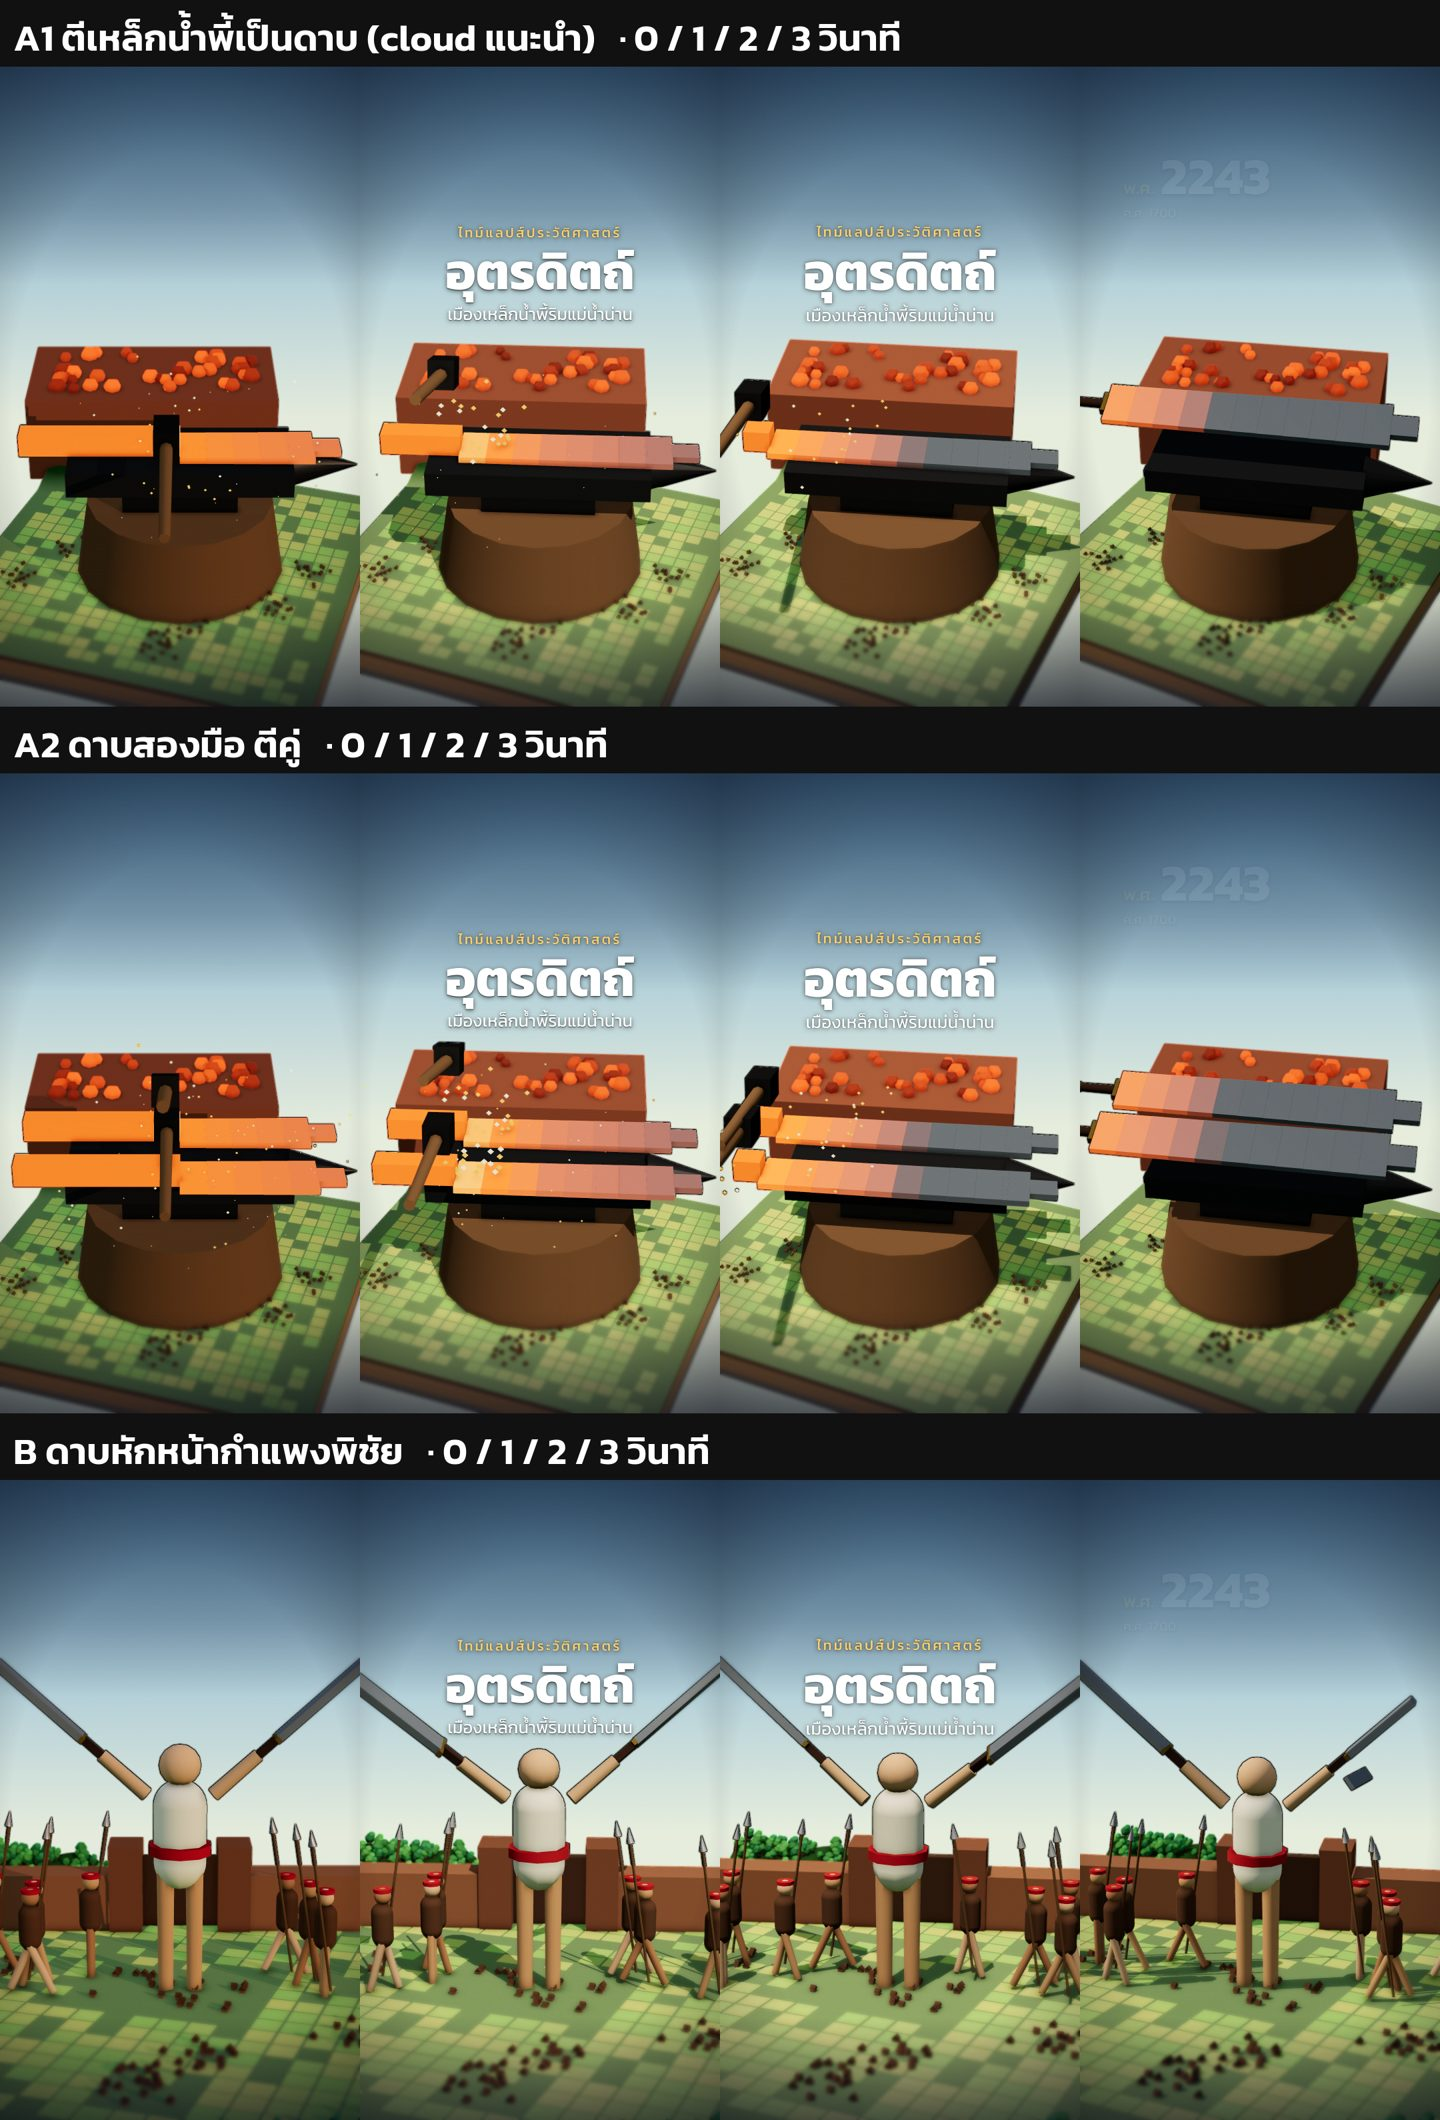
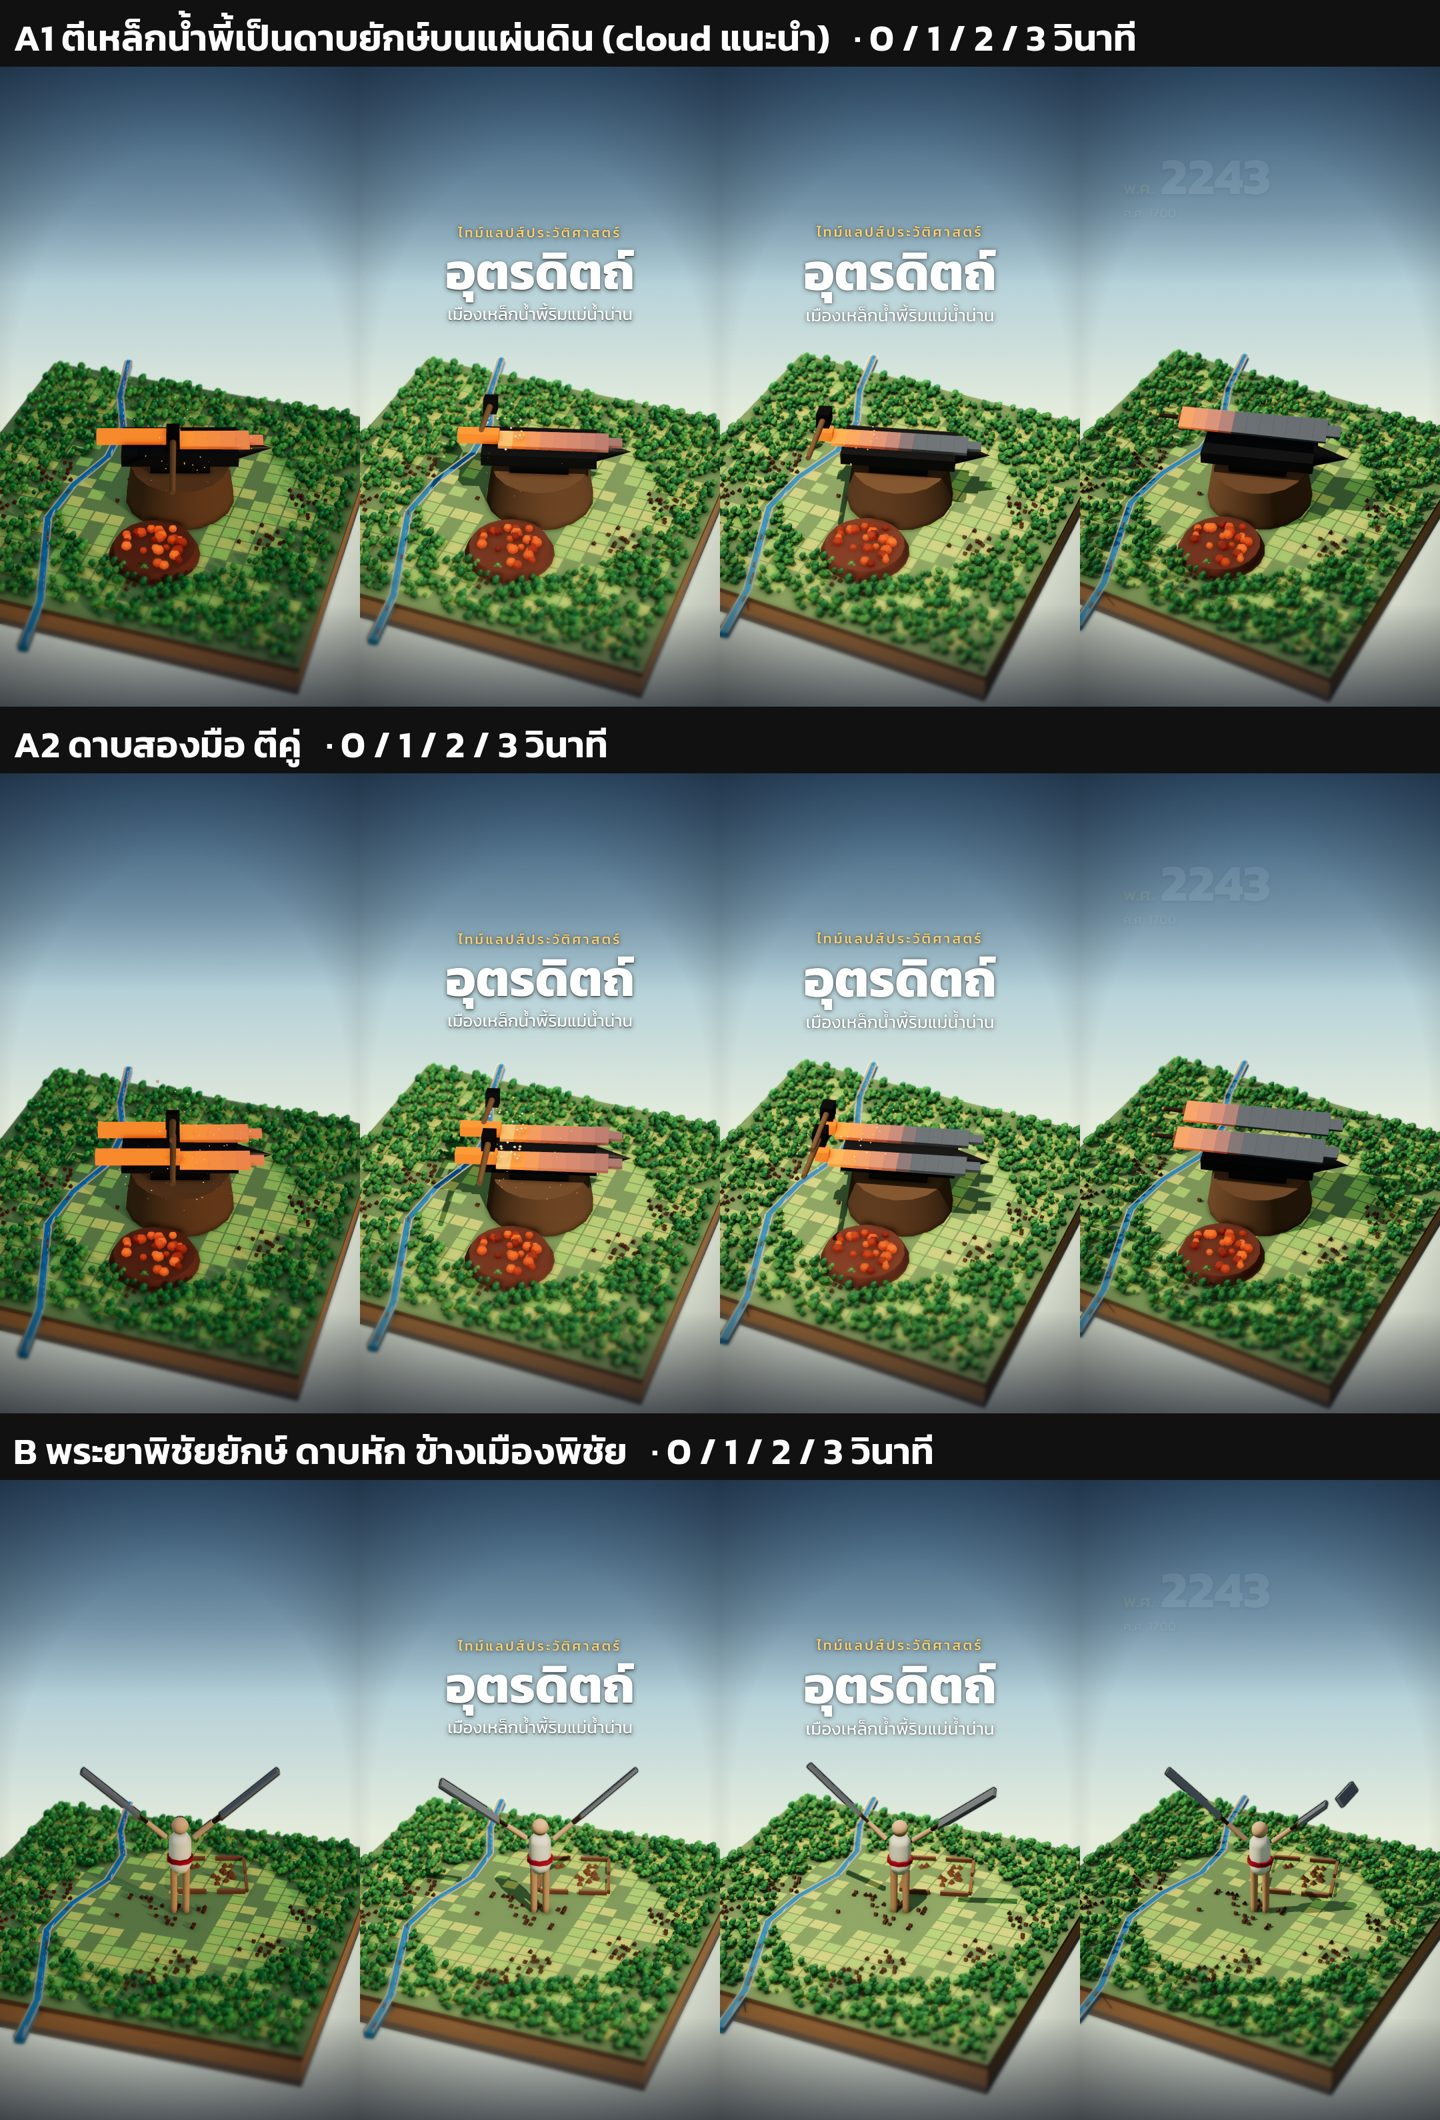
Uttaradit style frames v2: the whole land tile with the Nan, the anvil and sword at legend scale, camera 290-335 out (owner: the cover shows the land)

diff --git a/src/styleframes/uttaradit.tsx b/src/styleframes/uttaradit.tsx
@@ -7,7 +7,9 @@
 // the hilt goes on and the sword lifts and turns. A1 one sword on the whole tile; A2 the twin swords
 // (ดาบสองมือ) side by side, two hammers out of step. B: ดาบหัก, the fight before Phichai's wall in 2316:
 // the hero with a sword in each hand between two lines of spearmen; one blade snaps at ~2.2 s and its half
-// spins away. Shapes are placeholders until the layout lands.
+// spins away. Owner (8 Nov): the cover shows the whole land tile with a giant on it, like Korat, Chiang Mai,
+// Udon and Ratchaburi: legend-scale hero, forest tile and its soil edge in frame, camera ~290-335 out.
+// Shapes are placeholders until the layout lands.
 import React, {useMemo} from 'react';
 import * as THREE from 'three';
 import {KORAT} from '../cities/korat';
@@ -16,7 +18,11 @@ import {buildStory} from '../engine/story';
 import type {CityConfig, LandmarkProps} from '../engine/types';
 
 type P2 = [number, number];
-const FIELD: P2 = [0, -4];
+const FIELD: P2 = [4, -2];
+// the Nan, north to south down the west of the tile (placeholder until [local]'s map)
+const NAN: P2[] = [
+  [-30, -58], [-26, -40], [-20, -26], [-19, -12], [-23, 2], [-24, 16], [-19, 30], [-14, 44], [-12, 58],
+];
 const smooth = (x: number) => x * x * (3 - 2 * x);
 const clamp01 = (x: number) => Math.max(0, Math.min(1, x));
 const hash = (i: number) => {
@@ -171,16 +177,18 @@ const Smithy: React.FC<{t: number; S: number; blades: {z: number; lag: number}[]
         <coneGeometry args={[0.07 * S, 0.22 * S, 12]} />
         <meshStandardMaterial color="#363535" metalness={0.55} roughness={0.45} />
       </mesh>
-      {/* the hearth: a low brick bed of coals behind the anvil, breathing with the bellows */}
-      <group position={[-0.1 * S, 0, -0.75 * S]}>
-        <mesh position={[0, 0.16 * S, 0]} castShadow receiveShadow>
-          <boxGeometry args={[0.9 * S, 0.32 * S, 0.45 * S]} />
-          <meshStandardMaterial color="#8a4a2e" roughness={0.95} />
+      {/* the hearth: a low pit of coals on the ground beside the anvil, breathing with the bellows */}
+      <group position={[-0.15 * S, 0, 0.55 * S]}>
+        <mesh position={[0, 0.03 * S, 0]} receiveShadow>
+          <cylinderGeometry args={[0.24 * S, 0.27 * S, 0.06 * S, 20]} />
+          <meshStandardMaterial color="#6e3a24" roughness={0.95} />
         </mesh>
-        {Array.from({length: 40}, (_, i) => {
+        {Array.from({length: 30}, (_, i) => {
           const glow = 0.6 + 0.4 * Math.sin(t * 5 + i * 1.7);
+          const a = hash(i) * Math.PI * 2;
+          const r = Math.sqrt(hash(i + 40)) * 0.2 * S;
           return (
-            <mesh key={i} position={[(hash(i) - 0.5) * 0.75 * S, 0.33 * S, (hash(i + 40) - 0.5) * 0.32 * S]} scale={S * (0.02 + hash(i + 7) * 0.015)}>
+            <mesh key={i} position={[Math.cos(a) * r, 0.07 * S, Math.sin(a) * r]} scale={S * (0.02 + hash(i + 7) * 0.015)}>
               <dodecahedronGeometry args={[1, 0]} />
               <meshStandardMaterial color="#2a1a12" emissive="#ff5a10" emissiveIntensity={glow} roughness={1} />
             </mesh>
@@ -248,57 +256,53 @@ const Hero: React.FC<{t: number}> = ({t}) => {
 const Fight: React.FC<{t: number; S: number}> = ({t, S}) => {
   const u = clamp01((t - BROKE) / 1.6);
   // the snapped half of the blade spins up and away, with a flash at the break
-  const piece: [number, number, number] = [0.7 * S + u * 1.1 * S, 2.8 * S + u * 1.3 * S - u * u * 2.6 * S, 0.3 * S + u * 0.4 * S];
+  const piece: [number, number, number] = [0.9 * S + u * 1.1 * S, 2.9 * S + u * 1.0 * S - u * u * 3.2 * S, 0.3 * S + u * 0.4 * S];
   return (
     <group position={[FIELD[0], 0, FIELD[1]]} rotation-y={A}>
-      {/* Phichai's earth wall and its gate, behind */}
-      {[-1, 1].map((s) => (
-        <mesh key={s} position={[s * 2.6 * S, 0.4 * S, -2.4 * S]} castShadow receiveShadow>
-          <boxGeometry args={[4 * S, 0.8 * S, 0.55 * S]} />
-          <meshStandardMaterial color="#8e5b3c" roughness={0.95} />
-        </mesh>
-      ))}
-      {[-1, 1].map((s) => (
-        <mesh key={s} position={[s * 0.75 * S, 0.6 * S, -2.4 * S]} castShadow>
-          <boxGeometry args={[0.45 * S, 1.2 * S, 0.65 * S]} />
-          <meshStandardMaterial color="#7a4a30" roughness={0.9} />
-        </mesh>
-      ))}
-      <mesh position={[0, 0.5 * S, -2.45 * S]}>
-        <boxGeometry args={[1.05 * S, 1 * S, 0.12 * S]} />
-        <meshStandardMaterial color="#4a2e1c" roughness={0.9} />
-      </mesh>
-      {/* the hero, big, at the front */}
-      <group position={[0, 0, 0.2 * S]} scale={1.7 * S}>
+      {/* the giant: Phraya Phichai with a sword in each hand */}
+      <group scale={S}>
         <Hero t={t} />
       </group>
       {u > 0 && u < 1 && (
         <group position={piece} rotation={[u * 9, u * 5, u * 7]} scale={S}>
-          <mesh>
+          <mesh castShadow>
             <boxGeometry args={[0.05, 0.58, 0.16]} />
             <meshStandardMaterial color="#c9d0d6" metalness={0.75} roughness={0.25} />
           </mesh>
         </group>
       )}
       {t > BROKE && t < BROKE + 0.5 && (
-        <mesh position={[0.65 * S, 2.6 * S, 0.45 * S]} scale={S * 0.35 * Math.sin(((t - BROKE) / 0.5) * Math.PI)}>
+        <mesh position={[0.95 * S, 2.75 * S, 0.3 * S]} scale={S * 0.3 * Math.sin(((t - BROKE) / 0.5) * Math.PI)}>
           <octahedronGeometry args={[1, 0]} />
           <meshBasicMaterial color="#fff1c2" toneMapped={false} />
         </mesh>
       )}
-      {/* two lines of spearmen pressing in from the sides */}
-      {Array.from({length: 16}, (_, i) => {
-        const side = i % 2 ? 1 : -1;
-        const row = Math.floor(i / 2);
-        const press = 0.25 * Math.sin(t * 2 + i);
-        const x = side * (1.1 + row * 0.42 + press) * S;
-        const z = (-0.3 + (row % 3) * 0.35) * S;
-        return (
-          <group key={i} position={[x, 0, z]} rotation-y={side > 0 ? -Math.PI / 2 : Math.PI / 2} scale={0.75 * S}>
-            <Walker step={t * 1.4 + i * 0.3} i={i} spear />
-          </group>
-        );
-      })}
+    </group>
+  );
+};
+
+/** Phichai at true scale behind the giant: a square earth wall with a gate in each side and roofs inside */
+const Phichai: React.FC = () => {
+  const c: P2 = [FIELD[0] + 2, FIELD[1] - 20];
+  const half = 9;
+  return (
+    <group position={[c[0], 0, c[1]]} rotation-y={A}>
+      {[0, 1, 2, 3].map((k) => (
+        <group key={k} rotation-y={(k * Math.PI) / 2}>
+          {[-1, 1].map((sd) => (
+            <mesh key={sd} position={[sd * half * 0.55, 0.6, half]} castShadow receiveShadow>
+              <boxGeometry args={[half * 0.8, 1.2, 0.8]} />
+              <meshStandardMaterial color="#8e5b3c" roughness={0.95} />
+            </mesh>
+          ))}
+        </group>
+      ))}
+      {Array.from({length: 14}, (_, i) => (
+        <mesh key={i} position={[(hash(i) - 0.5) * 12, 0.7, (hash(i + 20) - 0.5) * 12]} rotation-y={hash(i + 5) * 3} castShadow>
+          <coneGeometry args={[1.1, 1.4, 4]} />
+          <meshStandardMaterial color="#7b4b2b" roughness={0.9} />
+        </mesh>
+      ))}
     </group>
   );
 };
@@ -342,8 +346,8 @@ const base = (id: string, Hero: React.FC<{t: number}>, target: number, d: [numbe
     },
     layout: {
       ...KORAT.layout,
-      peaks: [[-50, -42, 8, 11], [-34, -52, 6, 9]],
-      rivers: [],
+      peaks: [],
+      rivers: [{path: NAN, width: 1.8}],
       bridges: [],
       noMoat: true,
       noWall: true,
@@ -363,16 +367,31 @@ const base = (id: string, Hero: React.FC<{t: number}>, target: number, d: [numbe
   };
 };
 
-const S_A = 80;
-export const UTTARADIT_A1 = base('uttaradit-a1', ({t}) => <Smithy t={t} S={S_A} blades={[{z: 0, lag: 0}]} />, 0.42 * S_A, [300, 310, 340], 30, 1.6 * S_A);
+// legend scale: the sword ~40 units long on an anvil ~17 high, about the size of Udon's jar
+const S_A = 40;
+const CAM: [number, number, number] = [290, 300, 335];
+export const UTTARADIT_A1 = base('uttaradit-a1', ({t}) => <Smithy t={t} S={S_A} blades={[{z: 0, lag: 0}]} />, 0.35 * S_A, CAM, 36, 30);
 // A2: the twin swords (ดาบสองมือ) side by side, the second hammer half a blow behind the first
 export const UTTARADIT_A2 = base(
   'uttaradit-a2',
   ({t}) => <Smithy t={t} S={S_A} blades={[{z: -0.14, lag: 0}, {z: 0.14, lag: 0.12}]} />,
-  0.42 * S_A,
-  [300, 310, 340],
+  0.35 * S_A,
+  CAM,
+  36,
   30,
-  1.6 * S_A,
 );
-const S_B = 12;
-export const UTTARADIT_B = base('uttaradit-b', ({t}) => <Fight t={t} S={S_B} />, 1.5 * S_B, [170, 180, 200], 14, 4.2 * S_B);
+// B: the giant ~26 units tall (Walker 1.75 x 15), his town small behind him
+const S_B = 15;
+export const UTTARADIT_B = base(
+  'uttaradit-b',
+  ({t}) => (
+    <>
+      <Fight t={t} S={S_B} />
+      <Phichai />
+    </>
+  ),
+  0.9 * S_B,
+  CAM,
+  28,
+  32,
+);

diff --git a/docs/briefs/uttaradit.md b/docs/briefs/uttaradit.md
@@ -49,22 +49,27 @@ year and the Sila At station, the move of the seat and the name, the Sirikit dam
 
 ## Covers (style frames, 8 Nov; `uttaradit_styleframes.jpg`)
 
-Each measured against §17-§19 at frame 0: the symbol moves, fills ~1/3 of the frame, is half-made (no blank canvas) and
-changes shape.
-- **A1 (cloud's recommendation): the Nam Phi iron forged into a sword on the whole tile.** A giant anvil on its log, the
-  hearth's coals glowing behind; at frame 0 the tip half of the bar is already a flat blade and the hammer is on the next
-  segment; each blow flattens a segment and throws sparks; by ~2.3 s it is all blade; it cools from orange to steel, the
-  hilt goes on, and the sword lifts and turns its flat to the camera. The change is of **shape** (thick bar → flat blade)
-  and of heat, and the sound writes itself (hammer, hiss, ring).
-- **A2: the twin swords (ดาบสองมือ),** two bars forged side by side, two hammers out of step. Closer to Phraya Phichai (he
-  fought with a sword in each hand), but at thumbnail size two blades read less cleanly than one.
-- **B: ดาบหัก before Phichai's wall.** The hero with a sword in each hand between two lines of spearmen; one blade snaps at
-  ~2.2 s and its half spins away. It moves and is close, but at frame 0 nothing is half-made, and the figures read as toys;
-  better as the first event (3-9 s), where it is the payoff of A's sword.
+**v2 (owner, 8 Nov: "เลอะเทอะ"; the cover must show the whole square land tile, like Korat, Chiang Mai, Udon and
+Ratchaburi).** The first frames put a close camera on the anvil and showed no land, the mistake CLAUDE.md already names
+("The cover shows the land, with a giant on it"). v2 puts the hero at legend scale on a forest tile with the Nan down its
+west side, the soil edge in frame, camera 290-335 out at 36 degrees (B 28), as Udon's jar (~26 units) does.
 
-What is placeholder in the frames: the anvil and hearth are boxes; there is no smith (the hammer swings alone, as the lap had
-no hand in Chanthaburi's frames); the blade is a straight dap drawn in 12 segments; the year counter shows 2243 because the
-frames borrow Korat's story; the B figures are the Nan walkers scaled up.
+Each measured against §17-§19 at frame 0: the symbol moves, is half-made (no blank canvas) and changes shape.
+- **A1 (cloud's recommendation): the Nam Phi iron forged into a giant sword on the land.** An anvil ~17 units high on its
+  log in a clearing, a low pit of glowing coals beside it; the sword is ~40 units long. At frame 0 the tip half is already a
+  flat blade and the hammer is on the next segment; each blow flattens a segment and throws sparks; by ~2.3 s it is all
+  blade; it cools from orange to steel, the hilt goes on, and it lifts. The change is of **shape** (bar → blade) and heat,
+  and the sound writes itself (hammer, hiss, ring).
+- **A2: the twin swords (ดาบสองมือ),** two bars forged side by side, two hammers out of step. Closer to Phraya Phichai, but
+  from this distance two blades read as one wider slab.
+- **B: a giant Phraya Phichai (~26 units) beside the small walled Phichai,** a sword in each hand raised in a V; one blade
+  snaps at ~2.2 s and its half spins away. Nothing is half-made at frame 0, and the figure reads as a toy; better as the
+  first event (3-9 s).
+
+What is placeholder in the frames: the anvil and coals are simple solids; there is no smith (the hammer swings alone, as the
+lap had no hand in Chanthaburi's frames); the blade is a straight dap drawn in 12 segments; the Nan's course is drawn by
+eye until [local]'s map; the year counter shows 2243 because the frames borrow Korat's story; the B figure is a Nan walker
+scaled up.
 
 ## Storyline worksheet (`docs/storyline.md` §5) — first guess, before research
 
